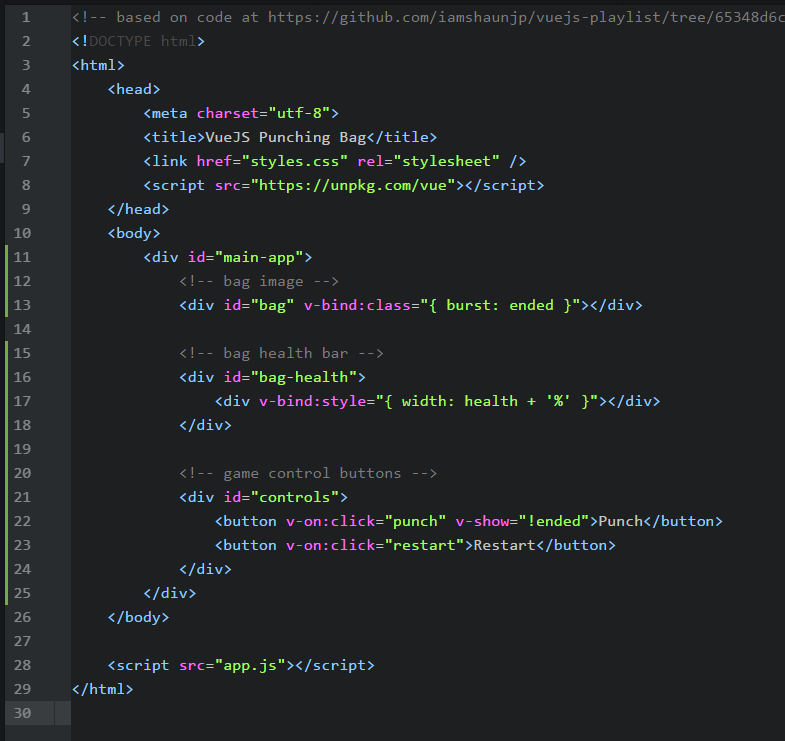
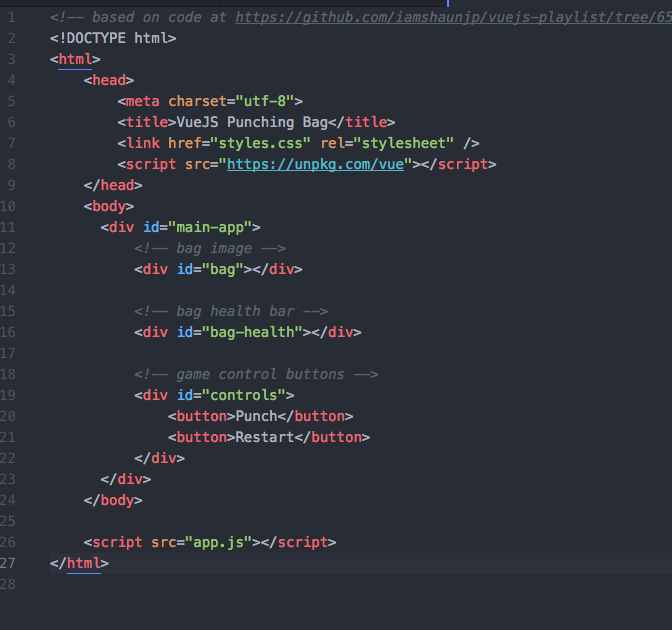
breaking things down step by step more

diff --git a/index.html b/index.html
@@ -8,7 +8,19 @@
         <script src="https://unpkg.com/vue"></script>
     </head>
     <body>
+      <div id="main-app">
+          <!-- bag image -->
+          <div id="bag"></div>
 
+          <!-- bag health bar -->
+          <div id="bag-health"></div>
+
+          <!-- game control buttons -->
+          <div id="controls">
+              <button v-on:click="punch">Punch</button>
+              <button v-on:click="restart">Restart</button>
+          </div>
+      </div>
     </body>
 
     <script src="app.js"></script>

diff --git a/app.js b/app.js
@@ -10,6 +10,7 @@ new Vue({
   },
   methods: {
     punch() {
+      console.log("punch");
       this.health -= 10;
       if (this.health <= 0) {
         this.ended = true;

diff --git a/README.md b/README.md
@@ -36,22 +36,20 @@ $ npm install vue
 Remember to explain any notation you are using.
 
 To get started, add the following HTML inside the body tags of `index.html`.
-This provides a place for your Vue component to be mounted and provides some controls.
+This provides a place for your Vue component to be mounted and provides some controls, to which we will bind functionality.
 
 ```html
 <div id="main-app">
     <!-- bag image -->
-    <div id="bag" v-bind:class="{ burst: ended }"></div>
+    <div id="bag"></div>
 
     <!-- bag health bar -->
-    <div id="bag-health">
-        <div v-bind:style="{ width: health + '%' }"></div>
-    </div>
+    <div id="bag-health"></div>
 
     <!-- game control buttons -->
     <div id="controls">
-        <button v-on:click="punch" v-show="!ended">Punch</button>
-        <button v-on:click="restart">Restart</button>
+        <button>Punch</button>
+        <button>Restart</button>
     </div>
 </div>
 ```
@@ -60,7 +58,7 @@ Your index.html should look like this:
 ![](img/indexHtmlScreenshot.png)
 
 
-Now head over to your app.js file. You'll notice that you the line ``el='#main-app'``.
+Now head over to your app.js file. You'll notice the line ``el='#main-app'``.
 ``el`` is an element selector, and it specifies the div that our app is going to act on (the same way we used ``getElementById`` in previous labs).
 
 In your app.js, inside the ``data`` section , paste the following code:
@@ -88,7 +86,10 @@ punch() {
     },
 ~~~~
 
-These functions will be called from button clicks as specified in the ``index.html`` file. 
+We can set on click methods on our controls to call these functions.
+Add `v-on:click="punch"` to the Punch button in game controls in your ``index.html`` file. Connect the restart function similarly.
+
+
 
 ## Summary / What you Learned
 
